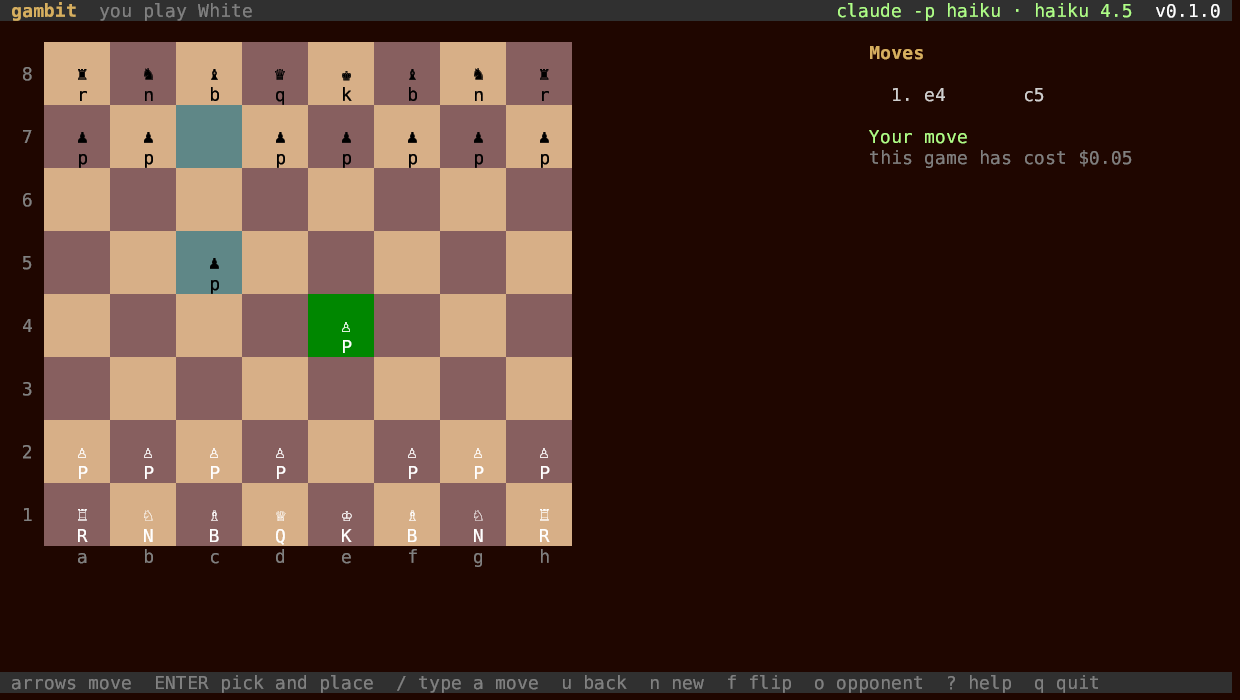
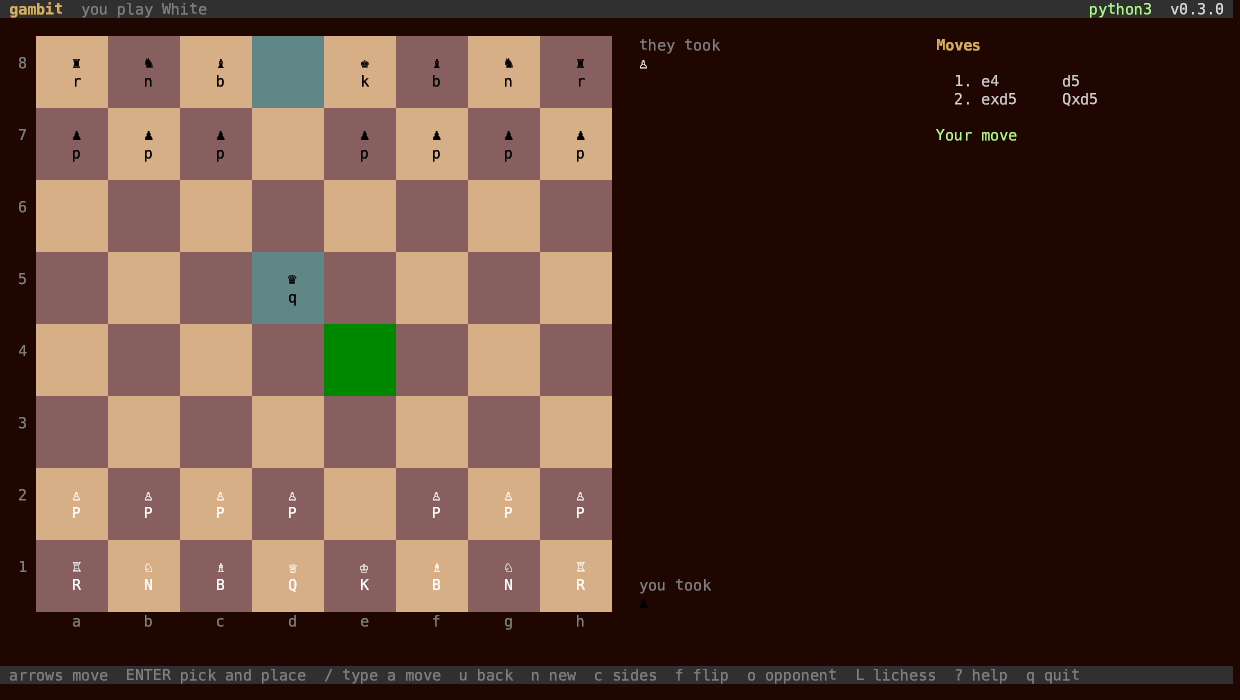
The pieces taken stand beside the board, with the point lead (v0.3.1)
Each pile sits by the player who took it, so it follows the board when you
turn it around, and the side that is ahead carries the difference in
points. A pawn that became a queen is not counted as a queen taken.

diff --git a/src/main.rs b/src/main.rs
@@ -207,12 +207,38 @@ impl App {
                 lines.push(line);
             }
         }
+        self.add_taken(&mut lines, 4 + 8 * sq_w + 3, sq_h);
         let files: String = (0..8).map(|col| {
             let file = if self.flip { 7 - col } else { col };
             format!("{:^width$}", (b'a' + file as u8) as char, width = sq_w)
         }).collect();
         lines.push(format!("     {}", style::fg(&files, t::DIM)));
         lines.join("\n")
+    }
+
+    /// Write what each side has taken beside the board: the pieces you took
+    /// under your end of it, theirs at the top, and who is ahead on points.
+    fn add_taken(&self, lines: &mut [String], at: usize, sq_h: usize) {
+        let (mine, theirs) = (lost(&self.pos, self.me), lost(&self.pos, self.me.other()));
+        let score = points(&theirs) - points(&mine);
+        let row = |pieces: &[Piece], color: Color| -> String {
+            if pieces.is_empty() { return style::fg("nothing yet", t::DIM); }
+            let glyphs: String = pieces.iter().map(|p| piece_glyph(*p, color)).collect();
+            style::fg(&glyphs, if color == Color::White { t::WHITE_PIECE } else { t::BLACK_PIECE })
+        };
+        let lead = |n: i32| if n > 0 { style::fg(&format!("  +{n}"), t::OK) } else { String::new() };
+        // Each pile goes beside the player who took it, so it follows the
+        // board when you turn it around.
+        let mine_at_bottom = (self.me == Color::White) != self.flip;
+        let last = 8 * sq_h;
+        let (they_row, you_row) = if mine_at_bottom { (1, last - 1) } else { (last - 1, 1) };
+        for (row_at, label, pieces) in [
+            (they_row, "they took", format!("{}{}", row(&mine, self.me), lead(-score))),
+            (you_row, "you took", format!("{}{}", row(&theirs, self.me.other()), lead(score))),
+        ] {
+            put(lines, row_at, at, &style::fg(label, t::DIM));
+            put(lines, row_at + 1, at, &pieces);
+        }
     }
 
     /// A square the picked piece may move to.
@@ -827,6 +853,39 @@ fn piece_glyph(p: Piece, c: Color) -> char {
 }
 
 /// White in capitals, black in small letters, as chess diagrams write them.
+/// The pieces `color` has lost. A pawn that turned into a queen still
+/// stands on the board, so a count never goes below nothing.
+fn lost(pos: &Position, color: Color) -> Vec<Piece> {
+    const FULL: [(Piece, usize); 5] = [
+        (Piece::Queen, 1), (Piece::Rook, 2), (Piece::Bishop, 2), (Piece::Knight, 2), (Piece::Pawn, 8),
+    ];
+    let mut out = Vec::new();
+    for (piece, start) in FULL {
+        let mut have = 0;
+        for sq in 0..64u8 {
+            if pos.piece_at(sq) == Some((color, piece)) { have += 1; }
+        }
+        for _ in 0..start.saturating_sub(have) { out.push(piece); }
+    }
+    out
+}
+
+/// Put `text` on line `row`, starting at column `at`.
+fn put(lines: &mut [String], row: usize, at: usize, text: &str) {
+    let Some(line) = lines.get_mut(row) else { return };
+    let pad = at.saturating_sub(crust::display_width(line));
+    line.push_str(&" ".repeat(pad));
+    line.push_str(text);
+}
+
+/// What a pile of taken pieces is worth, the way players count.
+fn points(pieces: &[Piece]) -> i32 {
+    pieces.iter().map(|p| match p {
+        Piece::Pawn => 1, Piece::Knight | Piece::Bishop => 3,
+        Piece::Rook => 5, Piece::Queen => 9, Piece::King => 0,
+    }).sum()
+}
+
 fn piece_letter(p: Piece, c: Color) -> char {
     let l = if p == Piece::Pawn { 'P' } else { p.letter() };
     if c == Color::White { l } else { l.to_ascii_lowercase() }
@@ -938,6 +997,26 @@ mod tests {
         assert_eq!(piece_glyph(Piece::Knight, Color::Black), '♞');
         assert_eq!(piece_letter(Piece::Pawn, Color::White), 'P');
         assert_eq!(piece_letter(Piece::Knight, Color::Black), 'n');
+    }
+
+    #[test]
+    fn the_pieces_missing_from_the_board_are_the_ones_taken() {
+        let start = Position::start();
+        assert!(lost(&start, Color::White).is_empty());
+        // White is a queen and a pawn down; Black has lost a knight.
+        let p = Position::from_fen("rnbqkb1r/pppppppp/8/8/8/8/PPPPPPP1/RNB1KBNR w KQkq - 0 1").unwrap();
+        assert_eq!(lost(&p, Color::White), [Piece::Queen, Piece::Pawn]);
+        assert_eq!(lost(&p, Color::Black), [Piece::Knight]);
+        // A pawn that became a second queen is not a queen taken.
+        let promoted = Position::from_fen("rnbqkbnr/pppppppp/8/8/8/8/PPPPPPP1/RNBQKBNQ w KQkq - 0 1").unwrap();
+        assert_eq!(lost(&promoted, Color::White), [Piece::Rook, Piece::Pawn]);
+    }
+
+    #[test]
+    fn taken_pieces_are_counted_the_way_players_count_them() {
+        assert_eq!(points(&[Piece::Queen, Piece::Pawn]), 10);
+        assert_eq!(points(&[Piece::Knight, Piece::Bishop, Piece::Rook]), 11);
+        assert_eq!(points(&[]), 0);
     }
 
     #[test]

diff --git a/README.md b/README.md
@@ -13,7 +13,9 @@ OpenAI's, anything that speaks the same shape (OpenRouter, a server on your
 own machine), or a command of your own.
 
 The board fills the window, and every piece carries its letter under it:
-capitals for White, small letters for Black. The header names the model
+capitals for White, small letters for Black. The pieces each side has
+taken stand beside the board, with the point lead next to whoever is
+ahead. The header names the model
 that actually answered, and the panel keeps the running cost when the
 opponent reports one.
 
